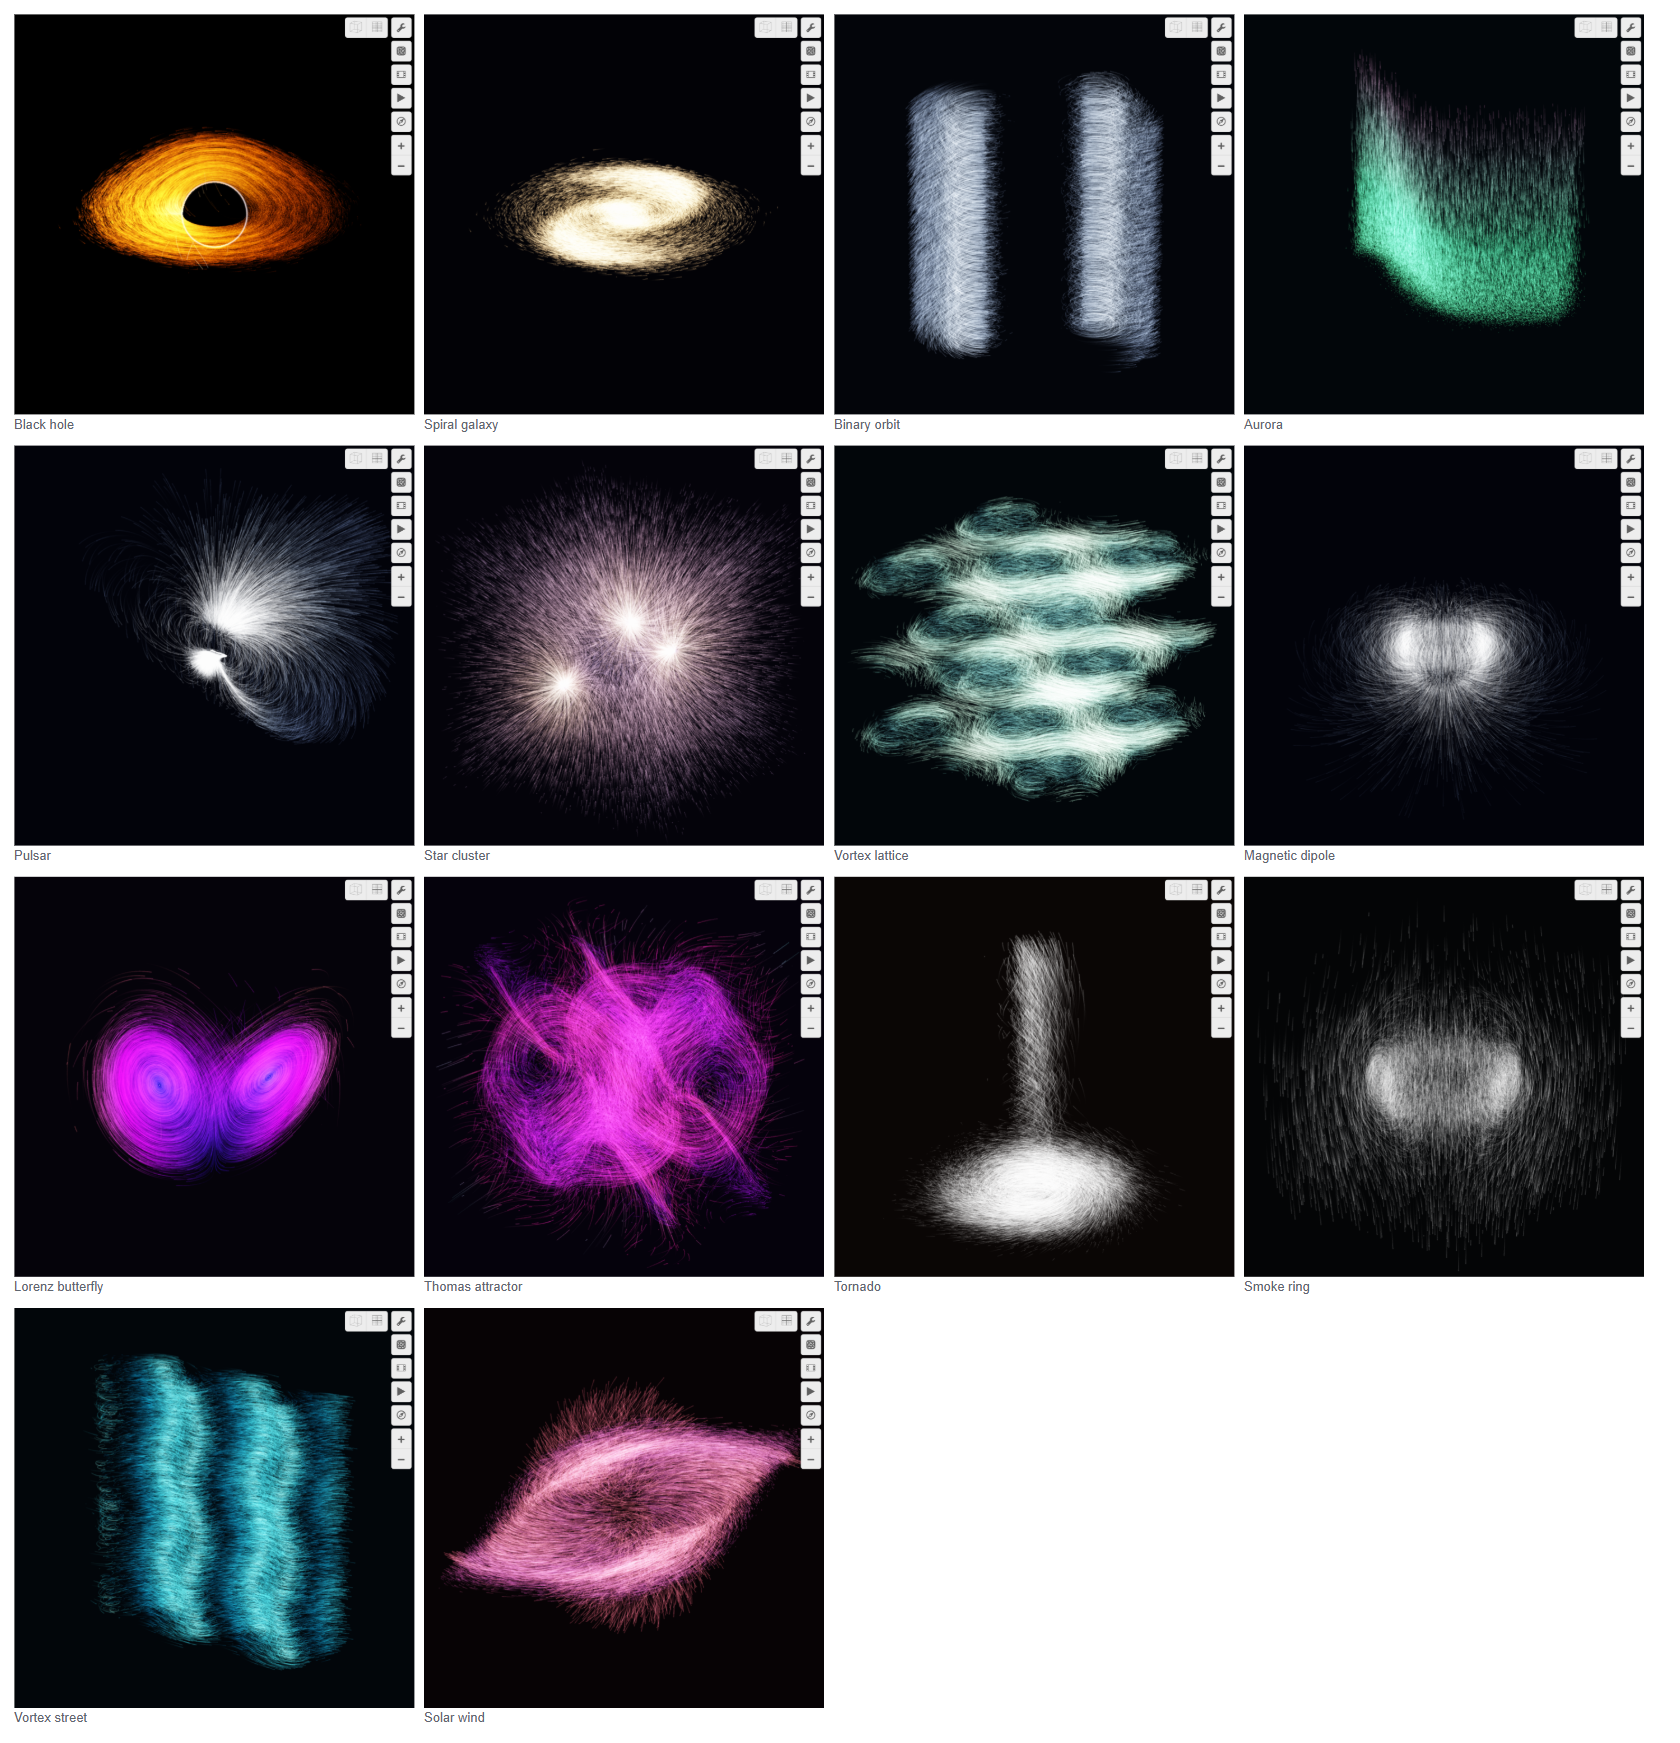
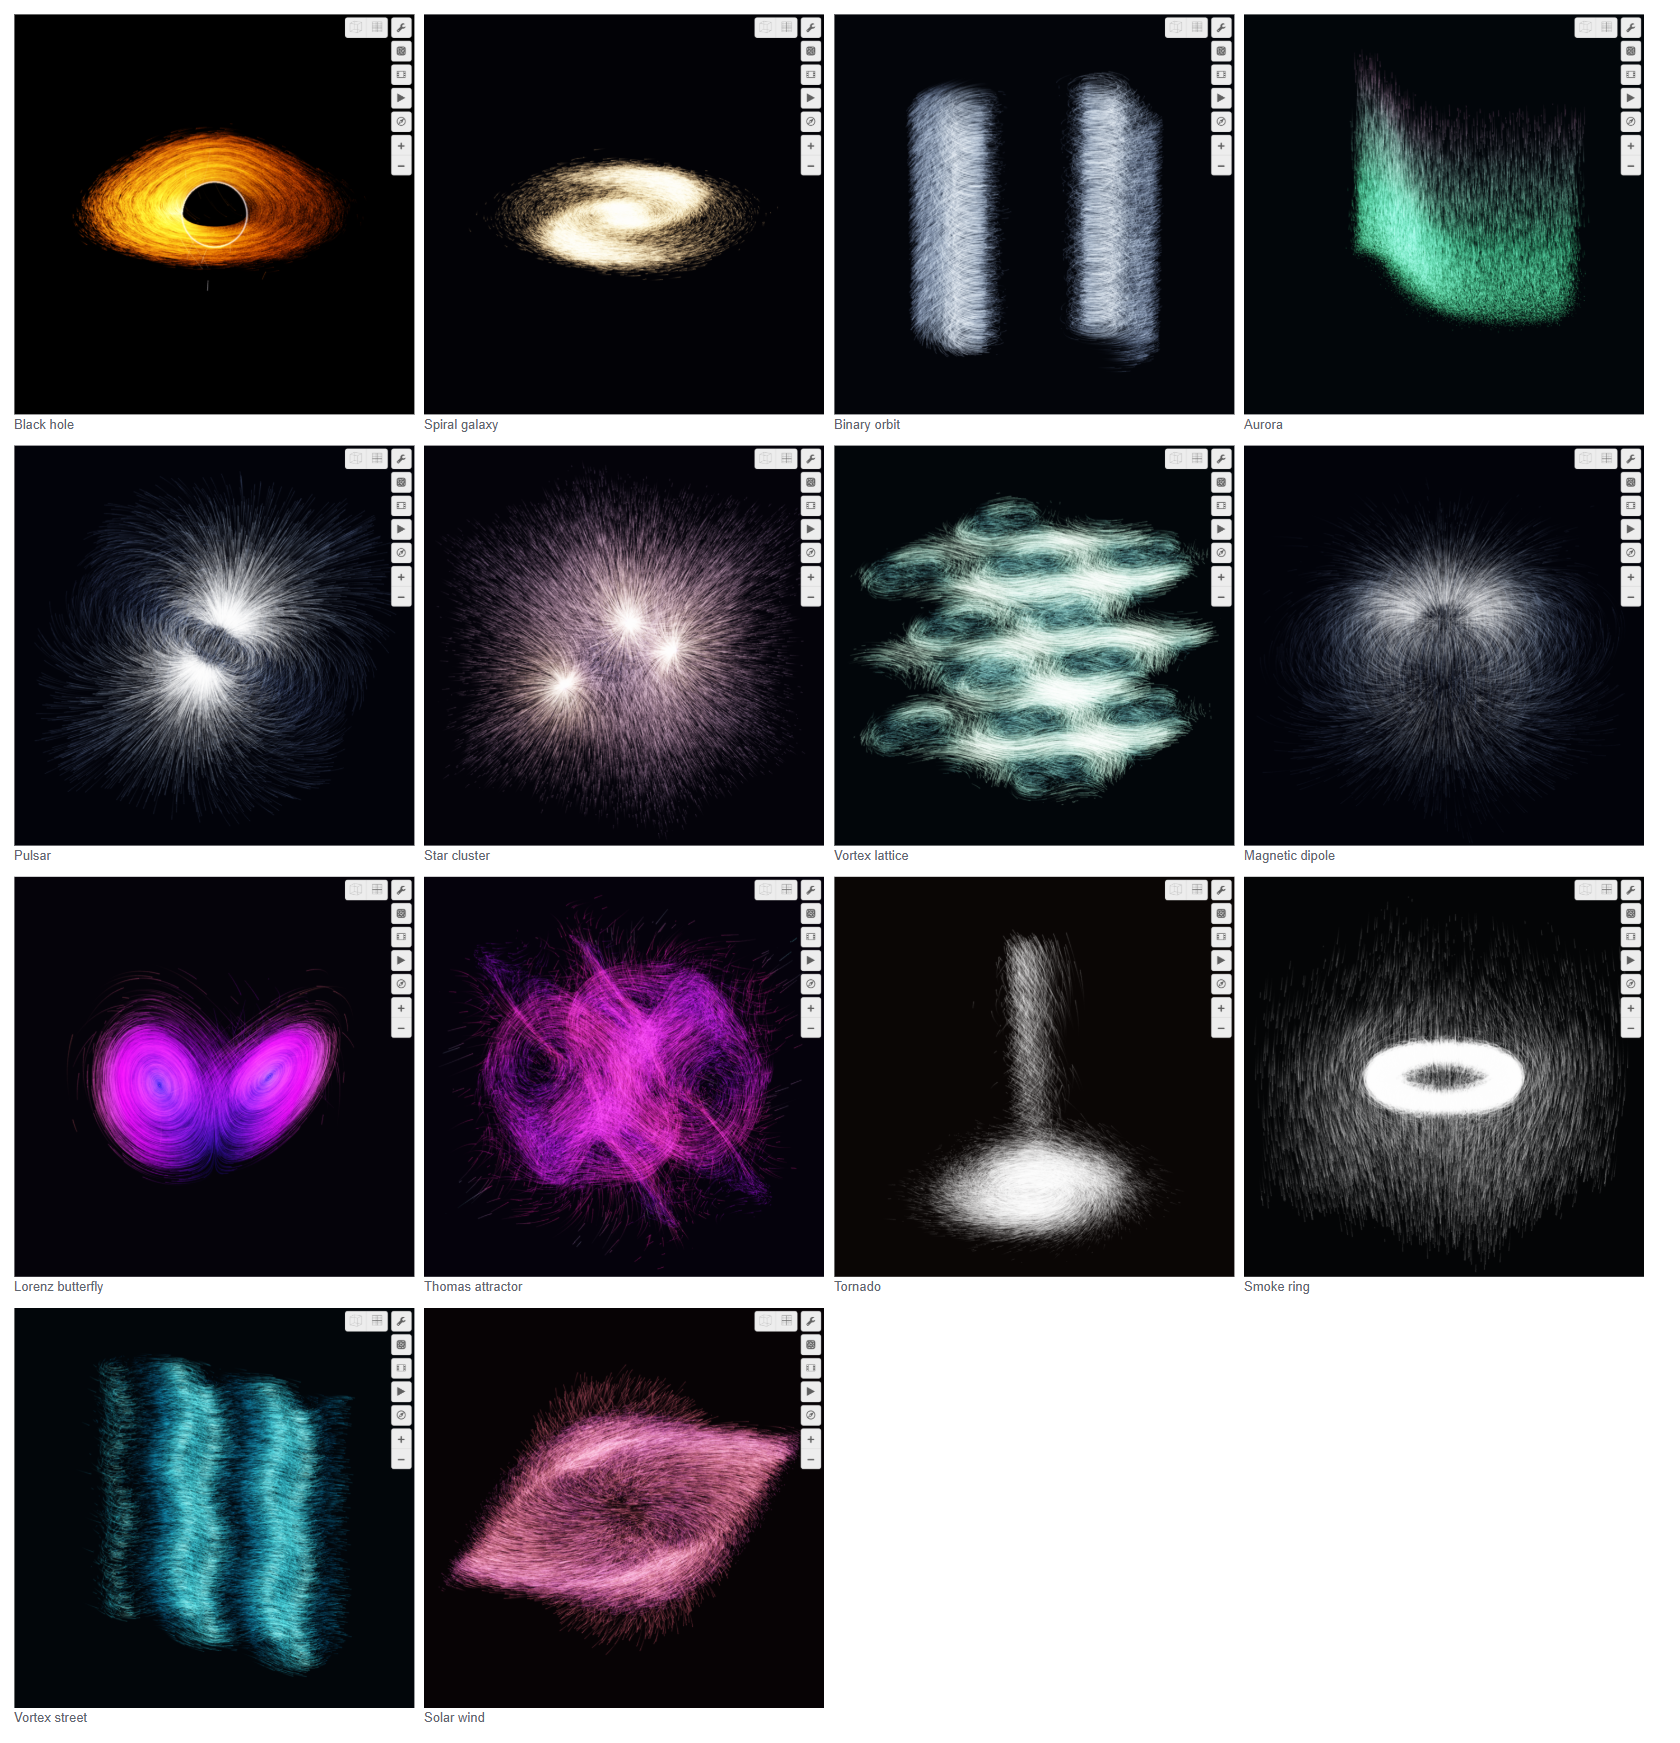
Finish the three weakest presets: a thin-cored smoke ring, a two-pole pulsar wind, a calmer dipole
The smoke ring in 3D used Hill's spherical vortex, whose vorticity fills a
whole sphere, so it drew a ball of fuzz; a real smoke ring's vorticity is a
thin core bent into a circle. It is now that: each cross-section a pair of
Lamb–Oseen vortices at ρ = ±R (the thin-core approximation, error of order
a/R), in the frame moving at Kelvin's speed for the ring, with smoke born
round the core — a crisp glowing ring. The 2D form keeps Hill's vortex,
whose cross-section was already the picture.

The pulsars were lopsided because particles flowed along B, out of one pole
and straight into the other. A pulsar's wind leaves both poles along the
open field lines and meets at the magnetic equator, where the field
reverses; the flow is now B·tanh(3 m·r̂), which does that, in 2D and 3D.

The dipole's core was blown out because every particle was born on one
shell round the magnet and every line returns there. They are now born
spread out round it, thinning with distance, and the field is zero inside
the magnet (and the pulsar's star), so lines end on its surface instead of
piling light into the middle.

These are built in code — thinVortexRing and dipole in gallery/latex.ts —
from their physical parameters, like the star cluster and vortex street.

diff --git a/src/field-rendering/gallery/space.ts b/src/field-rendering/gallery/space.ts
@@ -1,5 +1,5 @@
 /** Space: black holes, galaxies, stars and the solar wind. */
-import { orbitingWells, r3, rho } from "./latex";
+import { dipole, orbitingWells, r3, rho } from "./latex";
 import type { GalleryPreset } from "./types";
 
 /** The star cluster's three stars, circling their common centre. */
@@ -22,6 +22,28 @@ const CLUSTER_3D = orbitingWells(
   0.2,
   ["x", "y", "z"],
   0.25
+);
+
+/**
+ * The pulsar's spinning, tilted dipole: in the plane, m = (cos t, sin t); in
+ * the box, tilted 0.5 rad from its spin axis, m = (0.48 cos t, 0.48 sin t,
+ * 0.88). The wind leaves both poles.
+ */
+const PULSAR_2D = dipole(
+  [String.raw`\cos\left(t\right)`, String.raw`\sin\left(t\right)`],
+  ["x", "y"],
+  0.8,
+  true
+);
+const PULSAR_3D = dipole(
+  [
+    String.raw`0.48\cos\left(t\right)`,
+    String.raw`0.48\sin\left(t\right)`,
+    "0.88",
+  ],
+  ["x", "y", "z"],
+  0.7,
+  true
 );
 
 export const SPACE: readonly GalleryPreset[] = [
@@ -195,11 +217,11 @@ export const SPACE: readonly GalleryPreset[] = [
     name: "Pulsar",
     category: "space",
     blurb:
-      "A radial field whose sign follows sin t, so the whole thing breathes in and out.",
+      "A pulsar: a neutron star whose magnetic field turns with it. Charged particles stream out of both magnetic poles along the field lines and meet at the magnetic equator, where the field reverses — the current sheet.",
     // A dipole spinning in the plane, m = (cos t, sin t):
     // B = (3(m·r)r − m r²) / r⁵, with particles streaming off its poles.
-    xLatex: String.raw`\frac{3x\left(x\cos t+y\sin t\right)-\cos t\cdot\left(x^{2}+y^{2}\right)}{\left(x^{2}+y^{2}+0.05\right)^{2.5}}`,
-    yLatex: String.raw`\frac{3y\left(x\cos t+y\sin t\right)-\sin t\cdot\left(x^{2}+y^{2}\right)}{\left(x^{2}+y^{2}+0.05\right)^{2.5}}`,
+    xLatex: PULSAR_2D.x!,
+    yLatex: PULSAR_2D.y!,
     seedLatex: String.raw`e^{-3\left(\sqrt{x^{2}+y^{2}}-1.3\right)^{2}}\left(\frac{\left(x\cos t+y\sin t\right)^{2}}{x^{2}+y^{2}+0.01}\right)^{3}`,
     colorScale: 0.08,
     palette: "starfield",
@@ -218,12 +240,12 @@ export const SPACE: readonly GalleryPreset[] = [
     timeSpeed: 0.1,
     space: {
       blurb:
-        "A pulsar's magnetosphere: a neutron star whose magnetic axis is tilted from its spin axis, so the whole field turns with it. Charged particles stream off the magnetic poles along the field lines.",
+        "A pulsar's magnetosphere: a neutron star whose magnetic axis is tilted from its spin axis, so the whole field turns with it. The wind streams out of both magnetic poles along the field lines and meets at the magnetic equator, where the field reverses.",
       // A dipole whose moment m = (sin α cos t, sin α sin t, cos α), α = 0.5,
       // spins about z: B = (3(m·r)r − m r²) / r⁵.
-      xLatex: String.raw`\frac{3x\left(0.48x\cos t+0.48y\sin t+0.88z\right)-0.48\cos t\cdot${r3}}{\left(x^{2}+y^{2}+z^{2}+0.05\right)^{2.5}}`,
-      yLatex: String.raw`\frac{3y\left(0.48x\cos t+0.48y\sin t+0.88z\right)-0.48\sin t\cdot${r3}}{\left(x^{2}+y^{2}+z^{2}+0.05\right)^{2.5}}`,
-      zLatex: String.raw`\frac{3z\left(0.48x\cos t+0.48y\sin t+0.88z\right)-0.88${r3}}{\left(x^{2}+y^{2}+z^{2}+0.05\right)^{2.5}}`,
+      xLatex: PULSAR_3D.x!,
+      yLatex: PULSAR_3D.y!,
+      zLatex: PULSAR_3D.z!,
       // From the polar caps of a star of radius 0.8.
       seedLatex: String.raw`e^{-12\left(\sqrt{${r3}}-0.9\right)^{2}}\left(\frac{\left(0.48x\cos t+0.48y\sin t+0.88z\right)^{2}}{${r3}}\right)^{3}`,
       look: {

diff --git a/src/field-rendering/gallery/latex.ts b/src/field-rendering/gallery/latex.ts
@@ -70,3 +70,67 @@ export function vortexStreet(k: number, y0: number, half: number, shift = "") {
     y: String.raw`-\frac{${half}\sin\left(${b1}\right)}{${d1}}+\frac{${half}\sin\left(${b2}\right)}{${d2}}`,
   };
 }
+
+/**
+ * A thin-cored vortex ring of radius `R` round the z-axis, in the frame
+ * moving with it. Each meridional cross-section is a pair of Lamb–Oseen
+ * vortices of core radius `a` at ρ = ±R — the thin-core approximation, whose
+ * error is of order a/R — so the smoke swirls round a crisp core, and the
+ * ambient air streams past at the ring's own speed, Kelvin's
+ * U = Γ/(4πR)·(ln(8R/a) − 1/4), with k = Γ/2π. `pulse` multiplies the whole
+ * flow. Returns the Cartesian components.
+ */
+export function thinVortexRing(R: number, a: number, k: number, pulse = "") {
+  const rho = String.raw`\sqrt{x^{2}+y^{2}+0.0001}`;
+  const d1 = String.raw`\left(\left(${rho}-${R}\right)^{2}+z^{2}\right)`;
+  const d2 = String.raw`\left(\left(${rho}+${R}\right)^{2}+z^{2}\right)`;
+  const core = (d: string) =>
+    String.raw`\frac{1-e^{-\frac{${d}}{${a * a}}}}{${d}}`;
+  const f1 = core(d1);
+  const f2 = core(d2);
+  const U =
+    Math.round((k / (2 * R)) * (Math.log((8 * R) / a) - 0.25) * 1000) / 1000;
+  const radial = (c: "x" | "y") =>
+    String.raw`${pulse}\frac{${k}${c}z\left(${f1}-${f2}\right)}{${rho}}`;
+  return {
+    x: radial("x"),
+    y: radial("y"),
+    z: String.raw`${pulse}\left(-${k}\left(${rho}-${R}\right)${f1}+${k}\left(${rho}+${R}\right)${f2}-${U}\right)`,
+  };
+}
+
+/**
+ * A magnetic dipole of moment `m` (LaTeX for its components, which may read
+ * t), B = (3(m·r)r − m r²)/r⁵, with the field zero inside the star or magnet
+ * of radius `inside`, where field lines end. With `outflow`, particles move
+ * along B away from the magnetic equator on both sides — B·tanh(3 m·r̂) — the
+ * way a pulsar's wind leaves both poles along its open field lines and meets
+ * at the current sheet, rather than in at one pole and out at the other.
+ */
+export function dipole(
+  m: readonly string[],
+  axes: readonly ("x" | "y" | "z")[],
+  inside: number,
+  outflow: boolean
+) {
+  const r2 = axes.map((a) => `${a}^{2}`).join("+");
+  const dot = axes
+    .map((a, i) => (m[i] === "0" ? "" : `${m[i]}${a}`))
+    .filter((t) => t !== "")
+    .join("+")
+    .replace(/\+-/g, "-");
+  const s = String.raw`\left(${dot}\right)`;
+  const wind = outflow
+    ? String.raw`\tanh\left(\frac{3${s}}{\sqrt{${r2}}}\right)`
+    : "";
+  const out: Partial<Record<"x" | "y" | "z", string>> = {};
+  axes.forEach((a, i) => {
+    const mi = m[i] === "0" ? "" : String.raw`-${m[i]}\left(${r2}\right)`;
+    out[a] =
+      String.raw`\left\{${r2}>${inside * inside}:\frac{\left(3${a}${s}${mi}\right)${wind}}{\left(${r2}\right)^{2.5}},0\right\}`.replace(
+        /--/g,
+        "+"
+      );
+  });
+  return out;
+}

diff --git a/src/field-rendering/gallery/fields.ts b/src/field-rendering/gallery/fields.ts
@@ -1,6 +1,11 @@
 /** Fields: the textbook pictures. */
-import { r2, r3 } from "./latex";
+import { dipole, r2, r3 } from "./latex";
 import type { GalleryPreset } from "./types";
+
+/** The bar magnet on alternating current, along y in the plane and z in the box. */
+const AC = String.raw`\cos\left(0.4t\right)`;
+const MAGNET_2D = dipole(["0", AC], ["x", "y"], 0.8, false);
+const MAGNET_3D = dipole(["0", "0", AC], ["x", "y", "z"], 0.6, false);
 
 export const FIELDS: readonly GalleryPreset[] = [
   {
@@ -9,10 +14,10 @@ export const FIELDS: readonly GalleryPreset[] = [
     category: "fields",
     blurb:
       "The field of a bar magnet, and the one picture every physics textbook opens with. On alternating current: the lines keep their shape, and the field fades, reverses and returns.",
-    xLatex: String.raw`\frac{3xy\cos\left(0.4t\right)}{${r2}^{2.5}}`,
-    yLatex: String.raw`\frac{\left(2y^{2}-x^{2}\right)\cos\left(0.4t\right)}{${r2}^{2.5}}`,
+    xLatex: MAGNET_2D.x!,
+    yLatex: MAGNET_2D.y!,
     // Released round the magnet, as iron filings draw it.
-    seedLatex: String.raw`e^{-3\left(\sqrt{x^{2}+y^{2}}-1.5\right)^{2}}`,
+    seedLatex: String.raw`\frac{e^{-0.04\left(x^{2}+y^{2}\right)}}{1+e^{-4\left(\sqrt{x^{2}+y^{2}}-1.5\right)}}`,
     colorScale: 0.08,
     palette: "starfield",
     backdrop: "#02030a",
@@ -32,11 +37,11 @@ export const FIELDS: readonly GalleryPreset[] = [
     space: {
       blurb:
         "A bar magnet along the z-axis: field lines leave the north pole, loop round in every direction, and come back in at the south — drawn, as iron filings draw them, from around the magnet outward. On alternating current, so the field fades, reverses and returns.",
-      xLatex: String.raw`\frac{3xz\cos\left(0.4t\right)}{${r3}^{2.5}}`,
-      yLatex: String.raw`\frac{3yz\cos\left(0.4t\right)}{${r3}^{2.5}}`,
-      zLatex: String.raw`\frac{\left(2z^{2}-x^{2}-y^{2}\right)\cos\left(0.4t\right)}{${r3}^{2.5}}`,
+      xLatex: MAGNET_3D.x!,
+      yLatex: MAGNET_3D.y!,
+      zLatex: MAGNET_3D.z!,
       // Released round the magnet, a sphere of radius 1.
-      seedLatex: String.raw`e^{-10\left(\sqrt{${r3}}-1.2\right)^{2}}`,
+      seedLatex: String.raw`\frac{e^{-0.1\left(x^{2}+y^{2}+z^{2}\right)}}{1+e^{-4\left(\sqrt{x^{2}+y^{2}+z^{2}}-1.3\right)}}`,
       look: {
         particles: 18_000,
         speed: 0.3,

diff --git a/src/field-rendering/gallery/fluids.ts b/src/field-rendering/gallery/fluids.ts
@@ -1,4 +1,4 @@
-import { vortexStreet } from "./latex";
+import { thinVortexRing, vortexStreet } from "./latex";
 /** Fluids: vortices, wakes and storms. */
 import type { GalleryPreset } from "./types";
 
@@ -9,6 +9,17 @@ const STREET_3D = vortexStreet(
   0.562,
   0.5,
   String.raw`+0.25\sin\left(1.5z\right)`
+);
+
+/**
+ * The smoke ring in the box: radius 2.5, core 0.4, k = Γ/2π = 2, its puff
+ * pulsing.
+ */
+const RING = thinVortexRing(
+  2.5,
+  0.4,
+  2,
+  String.raw`\left(1+0.35\sin\left(0.6t\right)\right)`
 );
 
 export const FLUIDS: readonly GalleryPreset[] = [
@@ -185,13 +196,11 @@ export const FLUIDS: readonly GalleryPreset[] = [
     },
     space: {
       blurb:
-        "Hill's spherical vortex in 3D, an exact solution of Euler's equations and the classic model of a smoke ring: smoke circles the ring's core inside a sphere, and the air outside streams past it. The puff driving it pulses, so the smoke turns faster and slower.",
-      // Radius a = 3.5, speed U = 1: inside u = (3U/2a²)·(xz, yz) and
-      // w = (3U/2)(1 − (2ρ² + z²)/a²); outside the flow past a sphere.
-      xLatex: String.raw`\left(1+0.35\sin\left(0.6t\right)\right)\left\{x^{2}+y^{2}+z^{2}<12.25:0.1224xz,\frac{64.31xz}{\left(x^{2}+y^{2}+z^{2}\right)^{2.5}}\right\}`,
-      yLatex: String.raw`\left(1+0.35\sin\left(0.6t\right)\right)\left\{x^{2}+y^{2}+z^{2}<12.25:0.1224yz,\frac{64.31yz}{\left(x^{2}+y^{2}+z^{2}\right)^{2.5}}\right\}`,
-      zLatex: String.raw`\left(1+0.35\sin\left(0.6t\right)\right)\left\{x^{2}+y^{2}+z^{2}<12.25:1.5\left(1-\frac{2x^{2}+2y^{2}+z^{2}}{12.25}\right),-\left(1-\frac{42.875}{\left(x^{2}+y^{2}+z^{2}\right)^{1.5}}\right)-\frac{64.31\left(x^{2}+y^{2}\right)}{\left(x^{2}+y^{2}+z^{2}\right)^{2.5}}\right\}`,
-      seedLatex: String.raw`e^{-\frac{\left(\sqrt{x^{2}+y^{2}}-2.475\right)^{2}+z^{2}}{0.2}}+0.002`,
+        "A smoke ring in 3D: smoke spinning round a thin core bent into a circle, as a real ring's is, in the frame moving with it, so the air streams past. Each cross-section is a pair of Lamb–Oseen vortices, the thin-core approximation. The puff driving it pulses.",
+      xLatex: RING.x,
+      yLatex: RING.y,
+      zLatex: RING.z,
+      seedLatex: String.raw`e^{-\frac{\left(\sqrt{x^{2}+y^{2}}-2.5\right)^{2}+z^{2}}{0.12}}+0.004`,
       look: {
         particles: 40_000,
         speed: 0.3,
